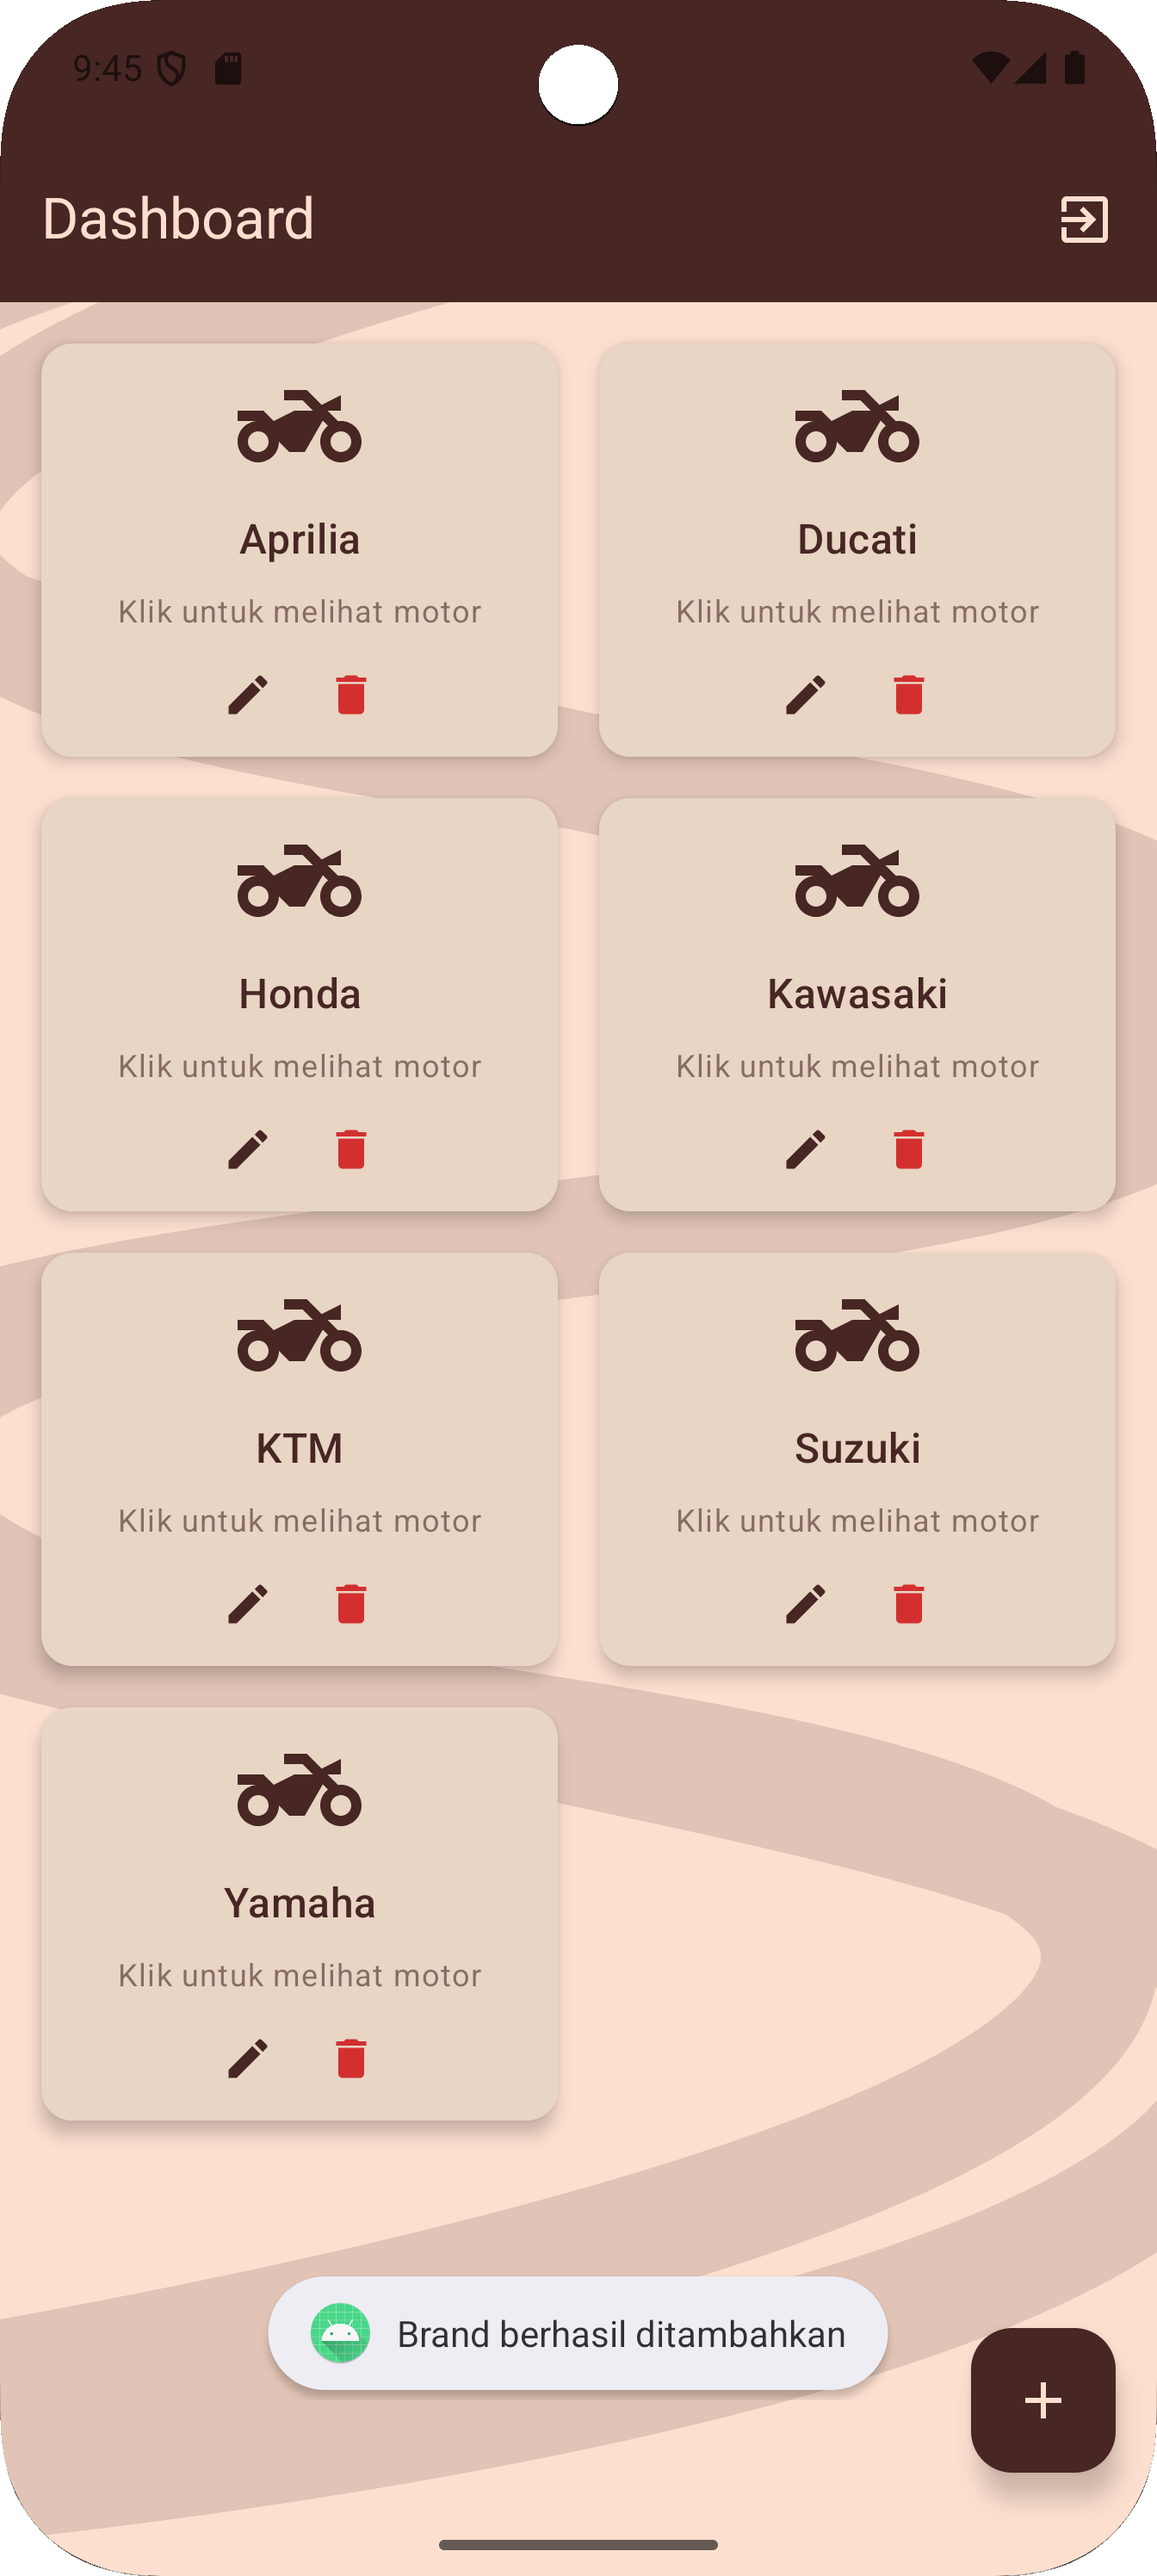
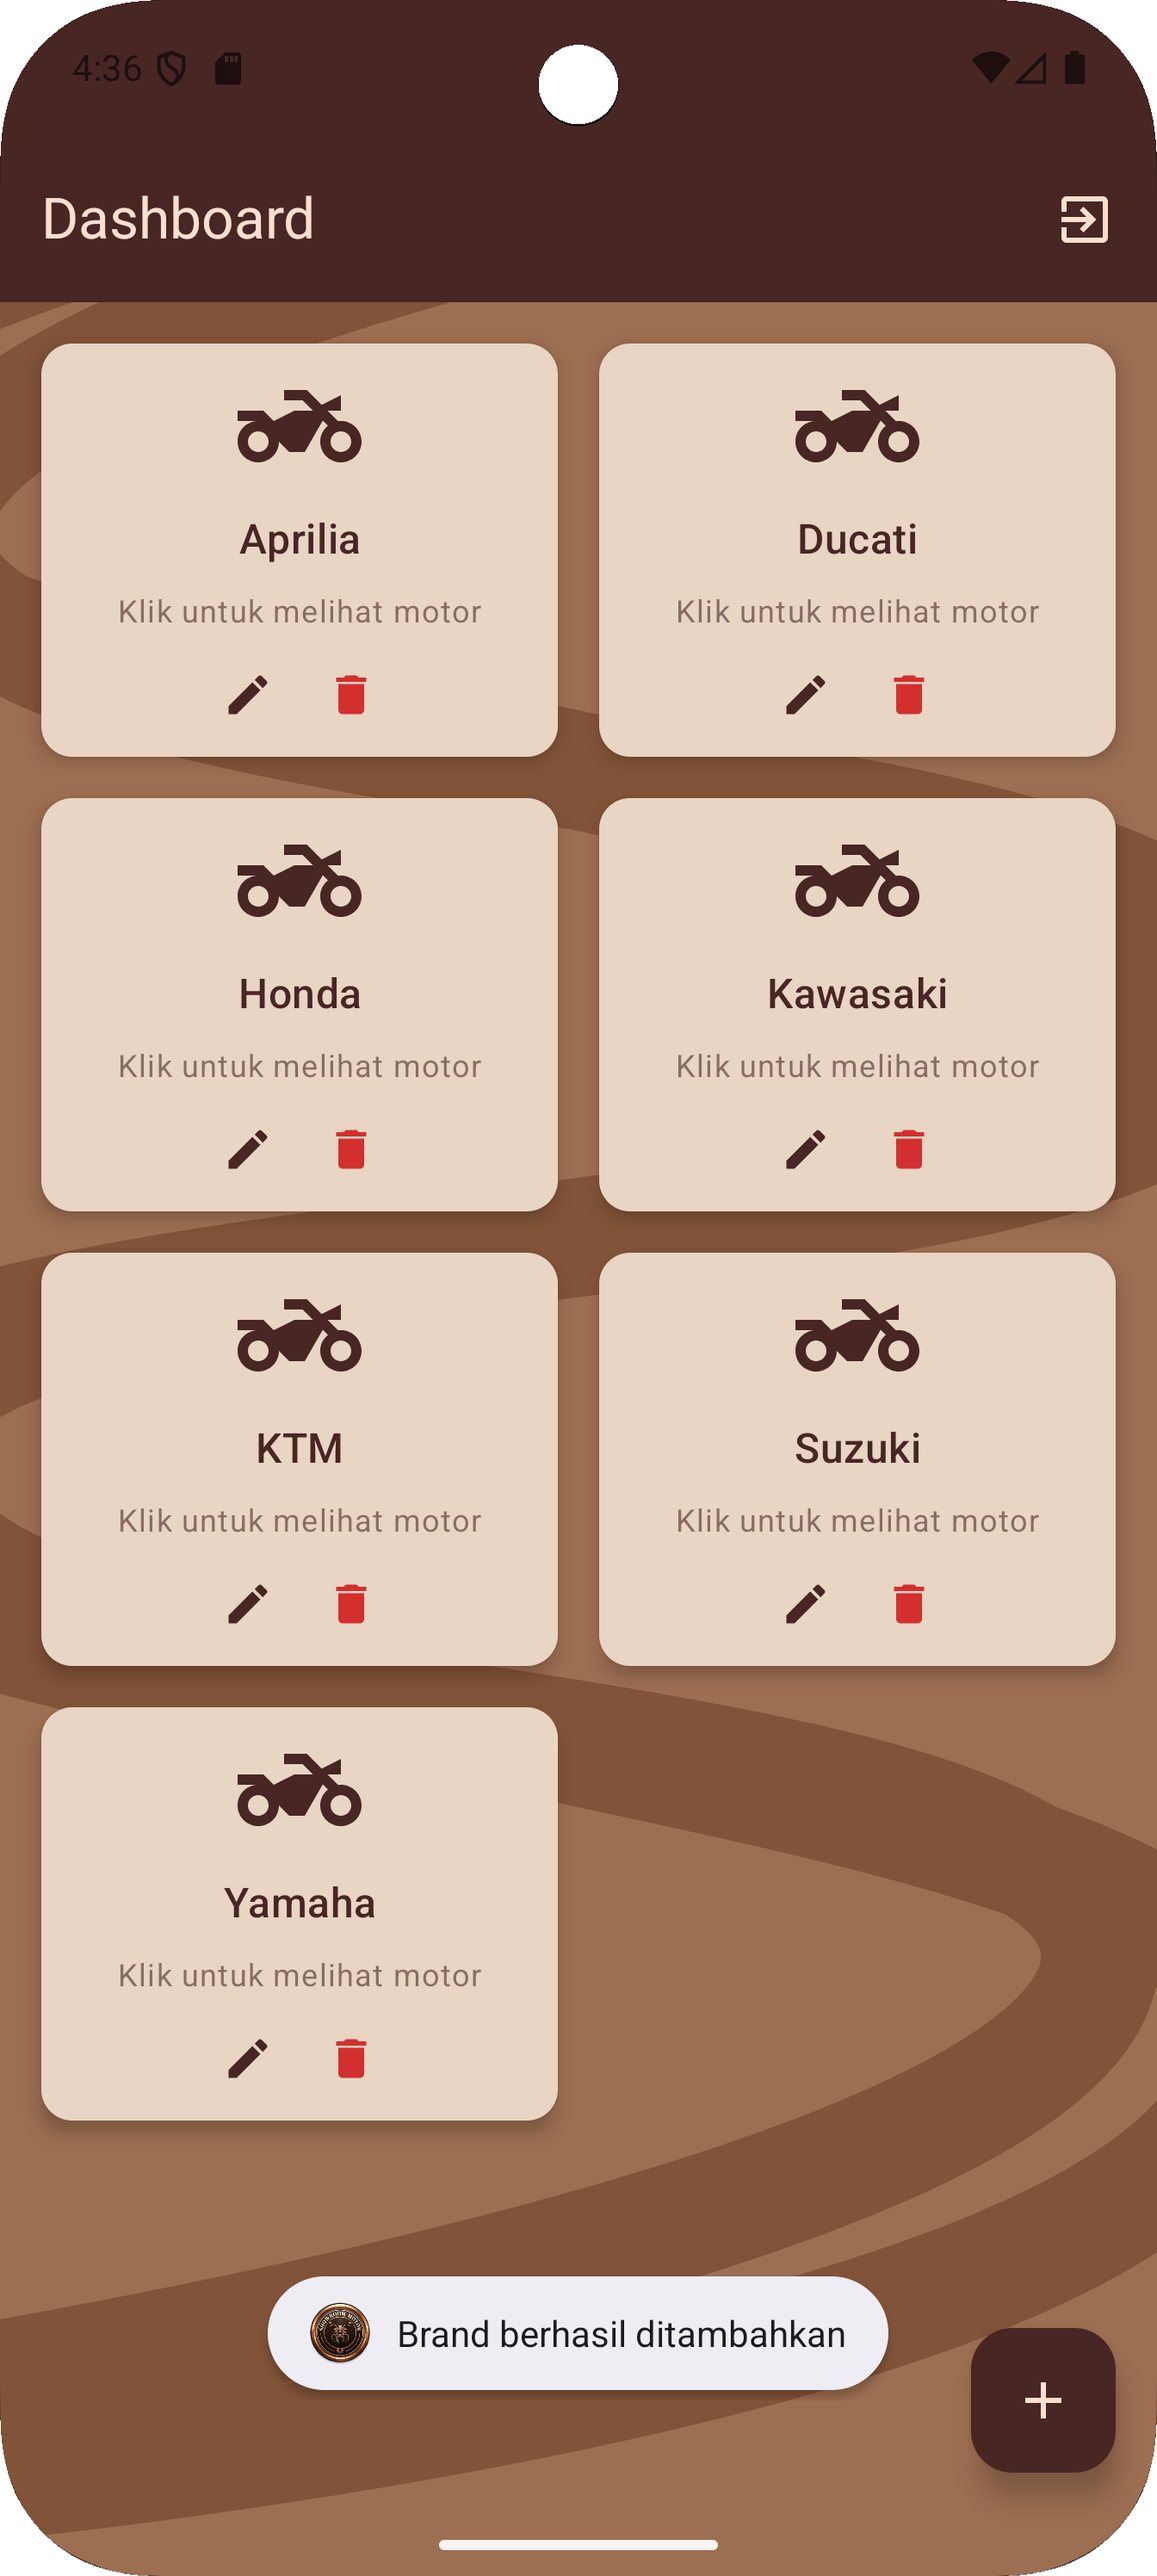
Memperbaiki skema warna dan memperbarui screenshot aplikasi

diff --git a/app/src/main/java/com/example/pengelolaandatamotorshowroom/view/HalamanDashboard.kt b/app/src/main/java/com/example/pengelolaandatamotorshowroom/view/HalamanDashboard.kt
@@ -151,7 +151,8 @@ fun HalamanDashboard(
                             R.string.brand_edit_title
                         else
                             R.string.brand_add_title
-                    )
+                    ),
+                    color = OnSurface
                 )
             },
             text = {
@@ -186,10 +187,10 @@ fun HalamanDashboard(
         AlertDialog(
             onDismissRequest = { viewModel.hideDeleteDialog() },
             title = {
-                Text(stringResource(R.string.btn_delete))
+                Text(stringResource(R.string.btn_delete), color = OnSurface)
             },
             text = {
-                Text(stringResource(R.string.brand_delete_confirm))
+                Text(stringResource(R.string.brand_delete_confirm), color = OnSurface)
             },
             confirmButton = {
                 Button(onClick = { viewModel.deleteBrand() }) {
@@ -208,8 +209,8 @@ fun HalamanDashboard(
     if (showLogoutDialog) {
         AlertDialog(
             onDismissRequest = { showLogoutDialog = false },
-            title = { Text(stringResource(R.string.btn_logout)) },
-            text = { Text(stringResource(R.string.logout_confirm)) },
+            title = { Text(stringResource(R.string.btn_logout), color = OnSurface) },
+            text = { Text(stringResource(R.string.logout_confirm), color = OnSurface) },
             confirmButton = {
                 Button(onClick = {
                     showLogoutDialog = false

diff --git a/app/src/main/java/com/example/pengelolaandatamotorshowroom/view/HalamanListMotor.kt b/app/src/main/java/com/example/pengelolaandatamotorshowroom/view/HalamanListMotor.kt
@@ -146,11 +146,11 @@ fun HalamanListMotor(
     if (uiState.showDeleteDialog) {
         AlertDialog(
             onDismissRequest = { viewModel.hideDeleteDialog() },
-            title = { Text(stringResource(R.string.delete_motor_title), color = OnBackground) },
+            title = { Text(stringResource(R.string.delete_motor_title), color = OnSurface) },
             text = {
                 Text(
                     "Yakin hapus motor ${uiState.motorToDelete?.nama_motor}?",
-                    color = OnBackground
+                    color = OnSurface
                 )
             },
             confirmButton = {
@@ -187,7 +187,7 @@ fun HalamanListMotor(
                     text = stringResource(
                         if (uiState.isAddStok) R.string.stock_add_title else R.string.stock_reduce_title
                     ),
-                    color = OnBackground
+                    color = OnSurface
                 )
             },
             text = {
@@ -195,7 +195,7 @@ fun HalamanListMotor(
                     stringResource(
                         if (uiState.isAddStok) R.string.stock_add_confirm else R.string.stock_reduce_confirm
                     ),
-                    color = OnBackground
+                    color = OnSurface
                 )
             },
             confirmButton = {

diff --git a/app/src/main/java/com/example/pengelolaandatamotorshowroom/view/HalamanDetailMotor.kt b/app/src/main/java/com/example/pengelolaandatamotorshowroom/view/HalamanDetailMotor.kt
@@ -113,7 +113,7 @@ fun HalamanDetailMotor(
                                     color = Primary
                                 )
 
-                                Divider(color = OnBackground.copy(alpha = 0.3f))
+                                Divider(color = CardOnBackground.copy(alpha = 0.3f))
 
                                 DetailRow(stringResource(R.string.motor_brand), motor.nama_brand)
                                 DetailRow(stringResource(R.string.motor_type), motor.tipe)
@@ -163,7 +163,7 @@ fun DetailRow(
         Text(
             text = label,
             style = MaterialTheme.typography.bodyLarge,
-            color = OnBackground.copy(alpha = 0.7f)
+            color = CardOnBackground.copy(alpha = 0.7f)
         )
         Text(
             text = value,

diff --git a/app/src/main/java/com/example/pengelolaandatamotorshowroom/ui/theme/Color.kt b/app/src/main/java/com/example/pengelolaandatamotorshowroom/ui/theme/Color.kt
@@ -6,9 +6,9 @@ import androidx.compose.ui.graphics.Color
 val Primary = Color(0xFF472624) // #472624 - Button, AppBar, FAB (COKLAT)
 val OnPrimary = Color(0xFFFCDFCF) // #fcdfcf - Text on primary (CREAM)
 
-// Background Colors - Cream
-val Background = Color(0xFFFCDFCF) // #fcdfcf - Background utama (CREAM)
-val OnBackground = Color(0xFF472624) // #472624 - Text on background (COKLAT)
+// Background Colors - Coklat
+val Background = Color(0xFF8B5A3C) // #8B5A3C - Background utama (COKLAT)
+val OnBackground = Color(0xFFFCDFCF) // #fcdfcf - Text on background (CREAM)
 
 // Surface Colors
 val Surface = Color(0xFFFAF0E6) // Cream sedikit lebih gelap untuk dialog

diff --git a/README.md b/README.md
@@ -83,7 +83,7 @@ app/src/main/java/com/example/pengelolaandatamotorshowroom/
 #### Edit Brand
 | Before | After |
 |:------:|:-----:|
-| ![Before Edit Brand](docs/screenshots/BeforeEditBrand.png) | ![After Edit Brand](docs/screenshots/AfterEditBrand.png) |
+| ![Before Edit Brand](docs/screenshots/BeforeEditBrand.png) | ![After Edit Brand](docs/screenshots/AfterEditBrand.png.png) |
 
 > Mengubah nama brand yang sudah ada
 
